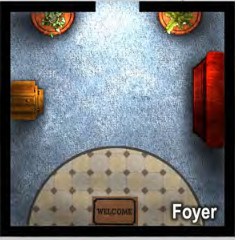
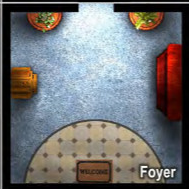
Add move/rotate code logic

diff --git a/src/Model/Game.py b/src/Model/Game.py
@@ -11,7 +11,6 @@ class Game:
         self.game_data = GameData()
         self.player = Player(self.game_data)
         self.image_handler = ImageHandler()
-        self.current_direction = Direction.NORTH
         self.current_zombie_count = 0
         self.state = State.STOPPED
         self.time = 0
@@ -26,6 +25,7 @@ class Game:
         print("-" * 100)
         self.time = 9
         self.game_data.shuffle_devcard_deck()
+        self.game_data.shuffle_tiles_deck()
         self.game_data.remove_two_devcards()
         self.game_data.map[self.player.y][
             self.player.x
@@ -46,12 +46,66 @@ class Game:
                 state_message = (
                     "You can move direction by typing move_n, move_e, move_s, move_w"
                 )
+            case State.ROTATING:
+                state = "Rotating"
+                state_message = (
+                    "Type 'rotate' to rotate the tile until a door matches the current tile. Then type "
+                    "'place' to place the tile."
+                )
+            case State.DRAWING:
+                state = "Draw Card"
+                state_message = "Type 'draw' to draw a random card."
 
         print(
             f"Your current tile is {current_tile.name}, current doors available are: {current_doors}"
         )
         print(f"Your current state is: {state}")
         print(state_message)
+
+    def move_player(self, direction):
+        current_tile = self.get_current_tile()
+        next_tile = None
+
+        if current_tile.room_type == "Indoor":
+            next_tile = self.game_data.indoor_tiles[0]
+        else:
+            next_tile = self.game_data.outdoor_tiles[0]
+
+        match direction:
+            case Direction.NORTH:
+                self.player.y -= 1
+                self.game_data.map[self.player.y][self.player.x] = next_tile
+
+            case Direction.SOUTH:
+                self.player.y += 1
+                self.game_data.map[self.player.y][self.player.x] = next_tile
+
+            case Direction.EAST:
+                self.player.x += 1
+                self.game_data.map[self.player.y][self.player.x] = next_tile
+
+            case Direction.WEST:
+                self.player.x -= 1
+                self.game_data.map[self.player.y][self.player.x] = next_tile
+
+        self.state = State.ROTATING
+        self.image_handler.create_map_image(self.game_data.map)
+        self.get_game_status()
+
+    def rotate_tile(self):
+        current_tile = self.get_current_tile()
+        if current_tile.rotate_factor == 3:
+            current_tile.rotate_factor = 0
+        else:
+            current_tile.rotate_factor += 1
+
+        temp = current_tile.door_w
+        current_tile.door_w = current_tile.door_s
+        current_tile.door_s = current_tile.door_e
+        current_tile.door_e = current_tile.door_n
+        current_tile.door_n = temp
+
+        self.image_handler.create_map_image(self.game_data.map)
 
     def get_current_tile(self):
         return self.game_data.map[self.player.y][self.player.x]

diff --git a/src/View/Commands.py b/src/View/Commands.py
@@ -1,4 +1,6 @@
 import cmd
+
+from Model.Direction import Direction
 from Model.Game import Game
 from Model.State import State
 
@@ -20,6 +22,57 @@ class Commands(cmd.Cmd):
             self.game.get_game_status()
         else:
             print("You are already currently playing the game.")
+
+    def do_move_n(self, line):
+        """
+        Moves player to a NORTH tile
+        :return:
+        """
+        if self.game.state == State.MOVING:
+            self.game.move_player(Direction.NORTH)
+        else:
+            print("You are currently not in the moving state.")
+
+    def do_move_e(self, line):
+        """
+        Moves player to a EAST tile
+        :return:
+        """
+        if self.game.state == State.MOVING:
+            self.game.move_player(Direction.EAST)
+        else:
+            print("You are currently not in the moving state.")
+
+    def do_move_s(self, line):
+        """
+        Moves player to a SOUTH tile
+        :return:
+        """
+        if self.game.state == State.MOVING:
+            self.game.move_player(Direction.SOUTH)
+        else:
+            print("You are currently not in the moving state.")
+
+    def do_move_w(self, line):
+        """
+        Moves player to a WEST tile
+        :return:
+        """
+        if self.game.state == State.MOVING:
+            self.game.move_player(Direction.WEST)
+        else:
+            print("You are currently not in the moving state.")
+
+    def do_rotate(self, line):
+        """
+        Rotates the current tile 90 degrees clockwise
+        :return:
+        """
+        if self.game.state == State.ROTATING:
+            self.game.rotate_tile()
+            self.game.get_game_status()
+        else:
+            print("You are currently not in the rotating state")
 
     @staticmethod
     def do_exit(self):

diff --git a/src/Model/ImageHandler.py b/src/Model/ImageHandler.py
@@ -1,3 +1,4 @@
+import PIL.Image
 from PIL import Image, ImageOps
 from pathlib import Path
 
@@ -26,7 +27,20 @@ class ImageHandler:
                     new_image = Image.open(
                         str(self.root_dir) + "\\" + map[row][col].img_src
                     )
-                    new_image = ImageOps.fit(new_image, self.size, Image.ANTIALIAS)
+                    rotated_image = None
+
+                    match map[row][col].rotate_factor:
+                        case 0:
+                            rotated_image = new_image
+                        case 1:
+                            rotated_image = new_image.rotate(270)
+                        case 2:
+                            rotated_image = new_image.rotate(180)
+                        case 3:
+                            rotated_image = new_image.rotate(90)
+
+                    new_image = ImageOps.fit(rotated_image, self.size, Image.ANTIALIAS)
+
                     map_image.paste(new_image, offset)
 
         map_image.save(Path(__file__).parent.parent / "generated.png", "PNG")

diff --git a/src/Model/GameData.py b/src/Model/GameData.py
@@ -102,6 +102,10 @@ class GameData:
     def shuffle_devcard_deck(self):
         random.shuffle(self.dev_cards)
 
+    def shuffle_tiles_deck(self):
+        random.shuffle(self.indoor_tiles)
+        random.shuffle(self.outdoor_tiles)
+
     def shuffle_tile_cards(self):
         random.shuffle(self.indoor_tiles)
         random.shuffle(self.outdoor_tiles)

diff --git a/src/Model/Tile.py b/src/Model/Tile.py
@@ -4,6 +4,7 @@ class Tile:
         self.action = action
         self.room_type = room_type
         self.img_src = src
+        self.rotate_factor = 0
         self.door_n = door_n
         self.door_e = door_e
         self.door_s = door_s
